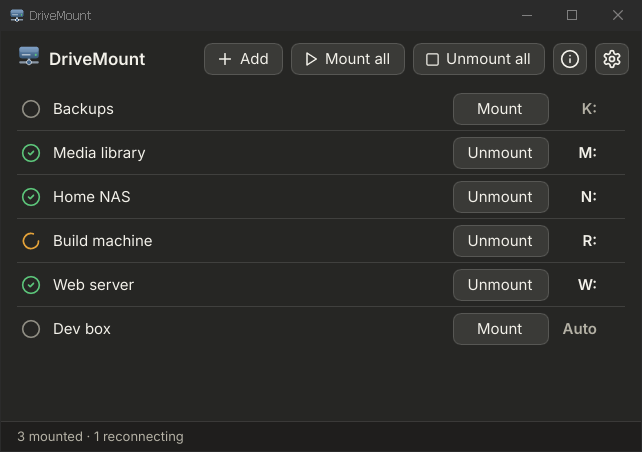
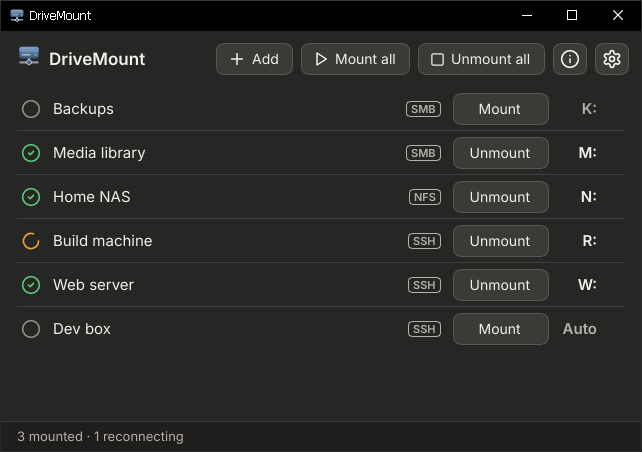
docs(readme): refresh the main window screenshot with SMB and NFS rows
The showcase set in the main_window example now has two SMB and one NFS
connection next to the SFTP ones, and the screenshot shows the protocol badges.

diff --git a/apps/drivemount/examples/main_window.rs b/apps/drivemount/examples/main_window.rs
@@ -148,11 +148,11 @@ drive_letter = "W"
 [[profiles]]
 id = "00000000-0000-4000-8000-000000000002"
 name = "Home NAS"
-protocol = "sftp"
-host = "nas.local"
-username = "alex"
-auth = "agent"
-remote_path = "/volume1/share"
+protocol = "nfs"
+server = "nas.local"
+export = "/volume1/share"
+uid = 1000
+gid = 100
 drive_letter = "N"
 
 [[profiles]]
@@ -178,21 +178,23 @@ remote_path = "~"
 [[profiles]]
 id = "00000000-0000-4000-8000-000000000005"
 name = "Backups"
-protocol = "sftp"
-host = "backup.example.com"
+protocol = "smb"
+server = "backup.example.com"
+share = "backups"
 username = "alex"
 auth = "password"
-remote_path = "/backups"
+remember = true
 drive_letter = "K"
 
 [[profiles]]
 id = "00000000-0000-4000-8000-000000000006"
 name = "Media library"
-protocol = "sftp"
-host = "media.local"
+protocol = "smb"
+server = "media.local"
+share = "library"
 username = "alex"
-auth = "agent"
-remote_path = "/mnt/media"
+auth = "password"
+remember = true
 drive_letter = "M"
 "#;
 
